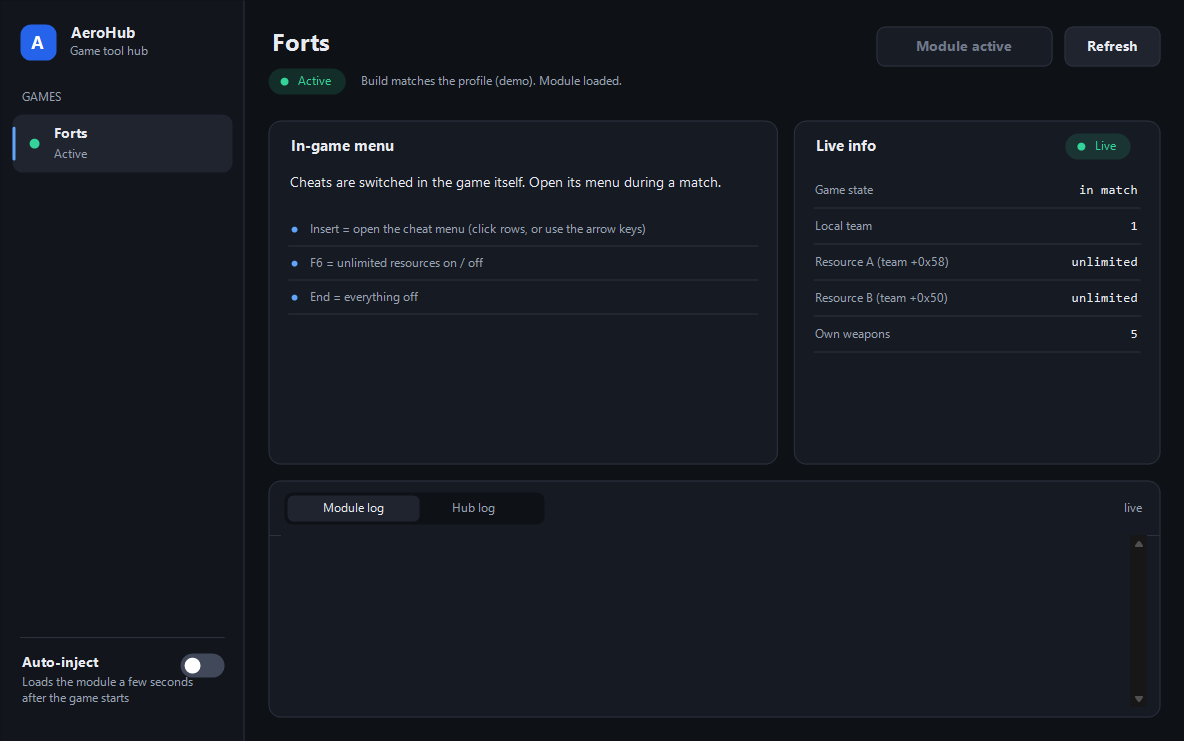
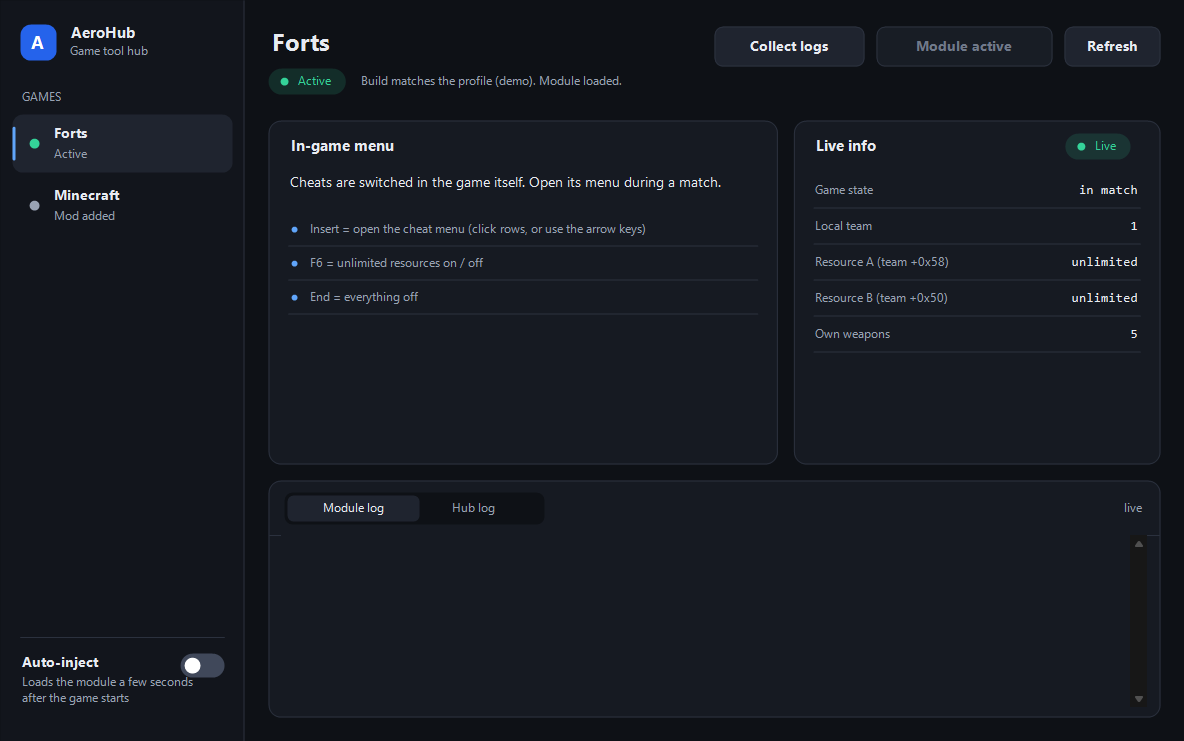
Docs: refresh the hub screenshot
hub.png was taken before the Collect logs button and the Minecraft entry.
The demo no longer shows the Vulkan warning unless started with --demo-vulkan.

Changed region(s): [[0.5938, 0.031, 0.75, 0.0931], [0.0312, 0.2483, 0.0938, 0.3104]]

diff --git a/hub/main.cpp b/hub/main.cpp
@@ -99,6 +99,7 @@ int g_sel = 0;
 bool g_autoInject = false;
 int g_tab = 0;  // 0 module log, 1 hub log
 bool g_demo = false;
+bool g_demoVulkan = false;  // --demo-vulkan: the demo also shows the "Forts is on Vulkan" warning
 
 aero::ipc::Client g_client;
 DWORD g_clientPid = 0;
@@ -486,8 +487,8 @@ bool IsForts(const aero::GameProfile& p) {
 void UpdateGraphics() {
     const int sel = SelectedProfile();
     if (sel < 0 || !IsForts(g_profiles[sel])) return;
-    if (g_demo) {  // preview of the warning; the actions are disabled in demo mode
-        g_gfx.state = aero::diag::GraphicsState::Vulkan;
+    if (g_demo) {  // fake data; the actions are disabled in demo mode
+        g_gfx.state = g_demoVulkan ? aero::diag::GraphicsState::Vulkan : aero::diag::GraphicsState::OpenGl;
         g_gfx.file = L"<demo>\\settings_hardware.lua";
         return;
     }
@@ -1180,6 +1181,7 @@ LRESULT CALLBACK WndProc(HWND hwnd, UINT msg, WPARAM wp, LPARAM lp) {
 int WINAPI wWinMain(HINSTANCE inst, HINSTANCE, PWSTR cmdLine, int show) {
     SetProcessDpiAwarenessContext(DPI_AWARENESS_CONTEXT_PER_MONITOR_AWARE_V2);
     g_demo = cmdLine && std::wstring(cmdLine).find(L"--demo") != std::wstring::npos;  // preview with fake data
+    g_demoVulkan = cmdLine && std::wstring(cmdLine).find(L"--demo-vulkan") != std::wstring::npos;
 
     wchar_t exe[MAX_PATH]{};
     GetModuleFileNameW(nullptr, exe, MAX_PATH);
